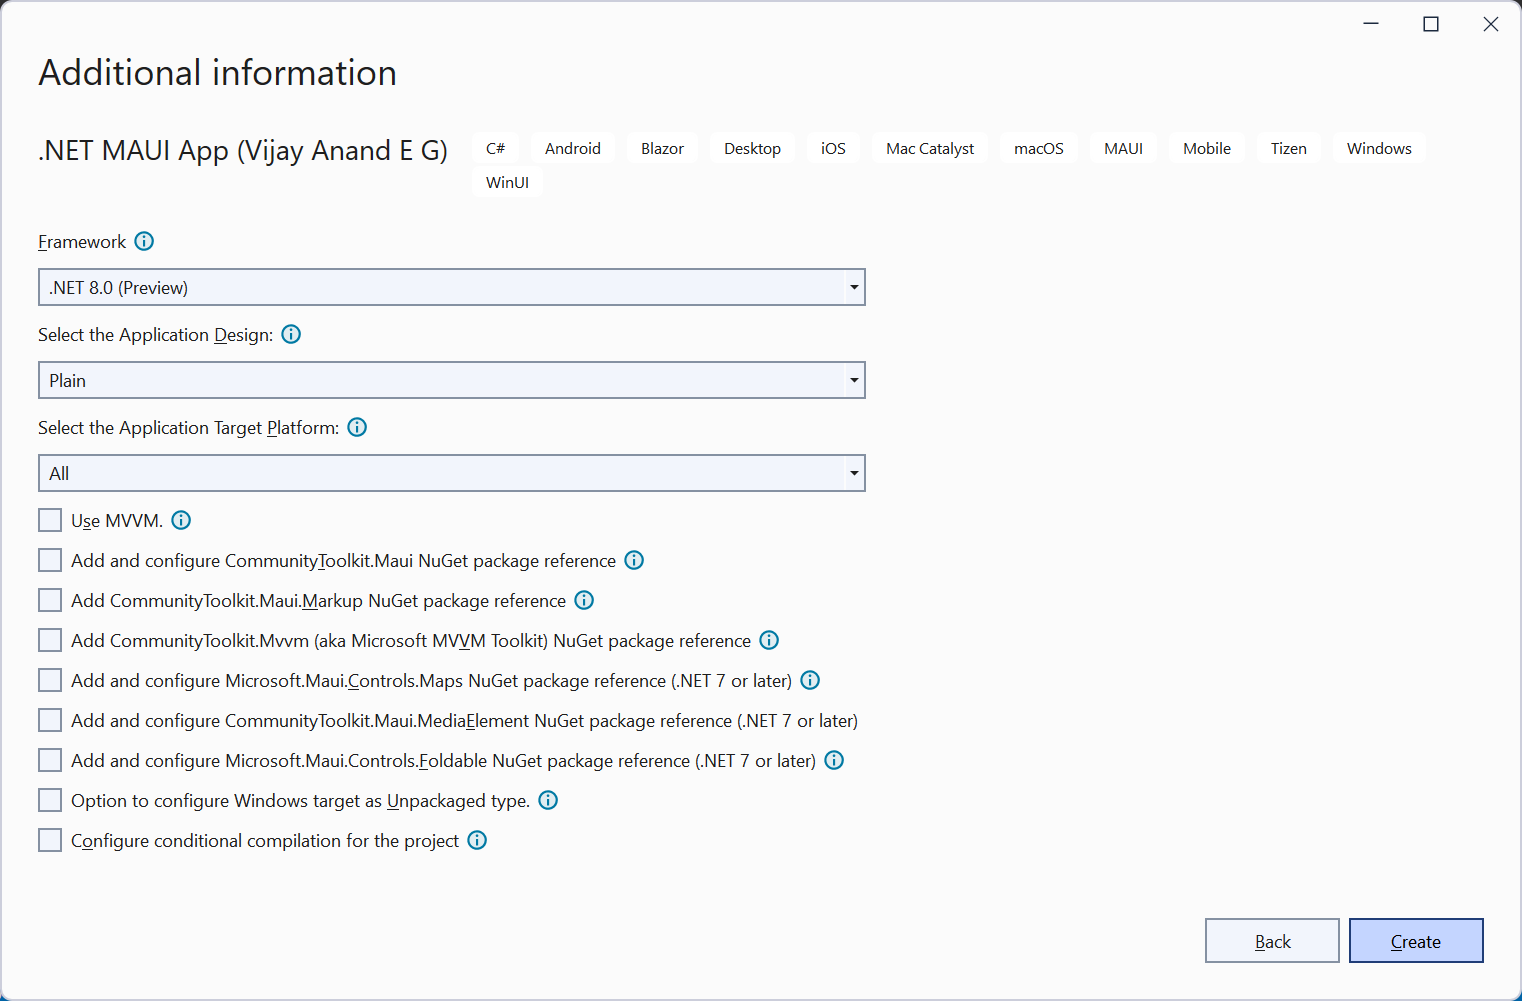
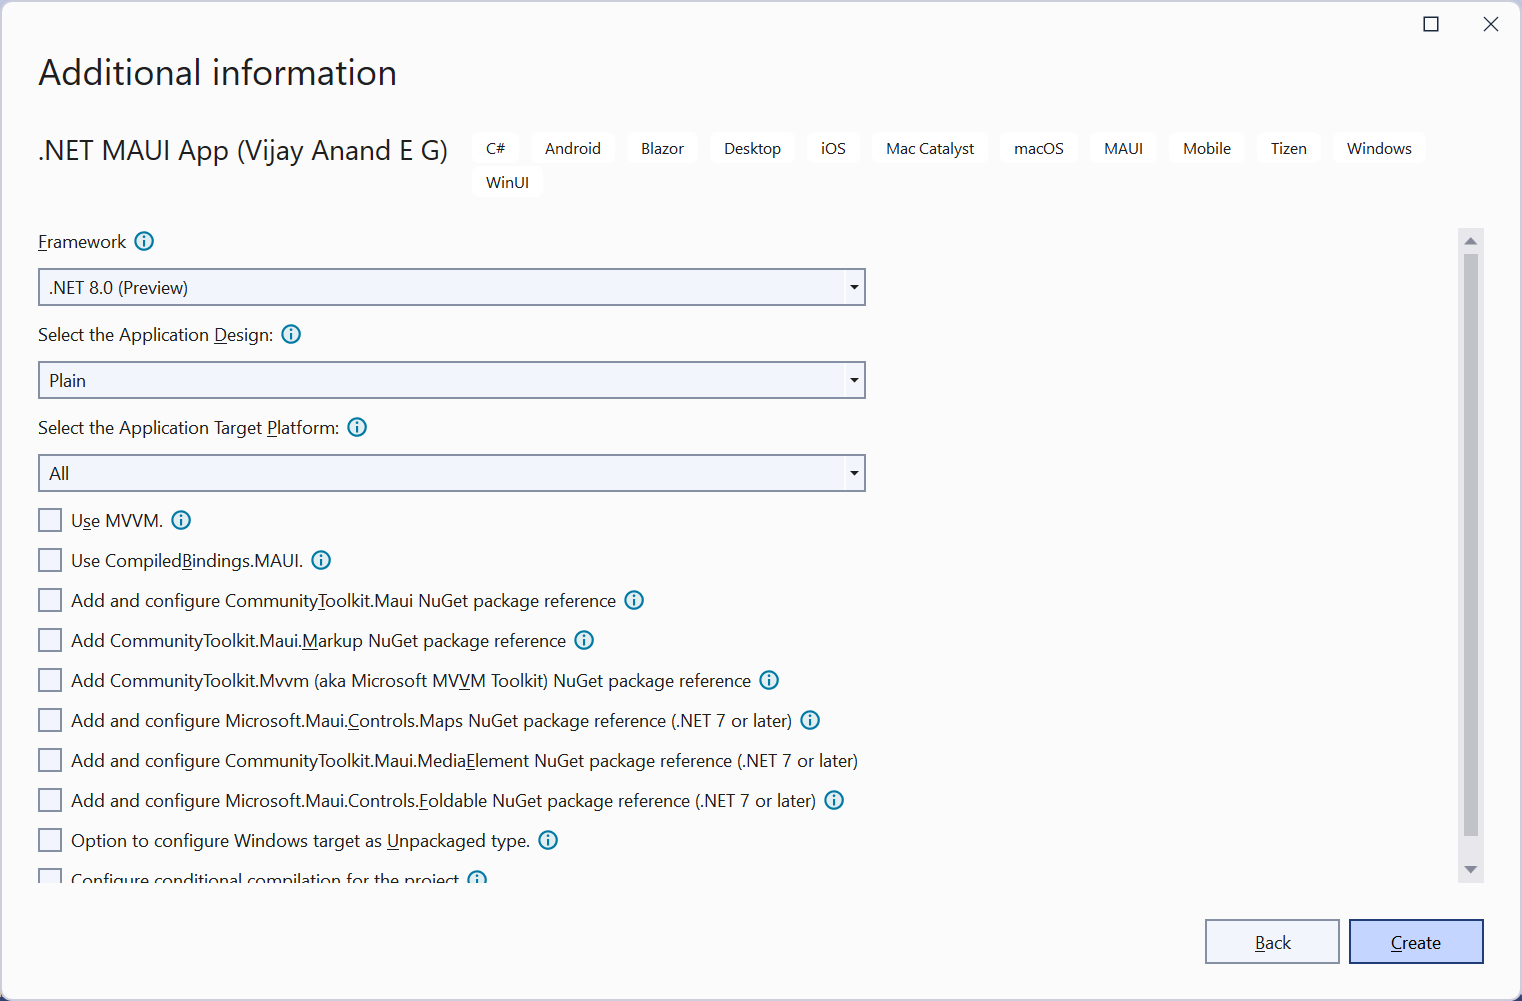
Added support for Compiled Bindings

diff --git a/src/MauiTemplatesCLI/MauiAppX/Views/MainPage.xaml b/src/MauiTemplatesCLI/MauiAppX/Views/MainPage.xaml
@@ -1,6 +1,19 @@
 <?xml version="1.0" encoding="UTF-8" ?>
 <!--#if (Hybrid)-->
 <!--#if (Mvvm)-->
+<!--#if (CompiledBindings)-->
+<ContentPage
+    x:Class="MauiApp._1.Views.MainPage"
+    xmlns="http://schemas.microsoft.com/dotnet/2021/maui"
+    xmlns:x="http://schemas.microsoft.com/winfx/2009/xaml"
+    xmlns:d="http://schemas.microsoft.com/dotnet/2021/maui/design"
+    xmlns:mc="http://schemas.openxmlformats.org/markup-compatibility/2006"
+    xmlns:local="clr-namespace:MauiApp._1"
+    xmlns:vm="clr-namespace:MauiApp._1.ViewModels"
+    Title="{x:Bind Title}"
+    x:DataType="vm:MainViewModel"
+    mc:Ignorable="d">
+<!--#else-->
 <ContentPage
     x:Class="MauiApp._1.Views.MainPage"
     xmlns="http://schemas.microsoft.com/dotnet/2021/maui"
@@ -12,6 +25,7 @@
     Title="{Binding Title}"
     x:DataType="vm:MainViewModel"
     mc:Ignorable="d">
+<!--#endif-->
     <ContentPage.Content>
         <BlazorWebView HostPage="wwwroot/index.html">
             <BlazorWebView.RootComponents>
@@ -66,6 +80,31 @@
 </TabbedPage>
 <!--#elif (Hierarchical)-->
 <!--#if (Mvvm)-->
+<!--#if (CompiledBindings)-->
+<ContentPage
+    x:Class="MauiApp._1.Views.MainPage"
+    xmlns="http://schemas.microsoft.com/dotnet/2021/maui"
+    xmlns:x="http://schemas.microsoft.com/winfx/2009/xaml"
+    xmlns:d="http://schemas.microsoft.com/dotnet/2021/maui/design"
+    xmlns:mc="http://schemas.openxmlformats.org/markup-compatibility/2006"
+    xmlns:local="clr-namespace:MauiApp._1"
+    xmlns:vm="clr-namespace:MauiApp._1.ViewModels"
+    Title="{x:Bind Title}"
+    x:DataType="vm:MainViewModel"
+    mc:Ignorable="d">
+    <ContentPage.Content>
+        <StackLayout
+            HorizontalOptions="Center"
+            VerticalOptions="Center">
+            <Label Text="You don't have anything scheduled today." />
+            <Button Command="{x:Bind AddEventCommand}"
+                    HorizontalOptions="Center"
+                    Style="{StaticResource PrimaryAction}"
+                    Text="Add Event" />
+        </StackLayout>
+    </ContentPage.Content>
+</ContentPage>
+<!--#else-->
 <ContentPage
     x:Class="MauiApp._1.Views.MainPage"
     xmlns="http://schemas.microsoft.com/dotnet/2021/maui"
@@ -89,6 +128,7 @@
         </StackLayout>
     </ContentPage.Content>
 </ContentPage>
+<!--#endif-->
 <!--#else-->
 <ContentPage
     x:Class="MauiApp._1.Views.MainPage"
@@ -114,6 +154,19 @@
 <!--#endif-->
 <!--#else-->
 <!--#if (Mvvm)-->
+<!--#if (CompiledBindings)-->
+<ContentPage
+    x:Class="MauiApp._1.Views.MainPage"
+    xmlns="http://schemas.microsoft.com/dotnet/2021/maui"
+    xmlns:x="http://schemas.microsoft.com/winfx/2009/xaml"
+    xmlns:d="http://schemas.microsoft.com/dotnet/2021/maui/design"
+    xmlns:mc="http://schemas.openxmlformats.org/markup-compatibility/2006"
+    xmlns:local="clr-namespace:MauiApp._1"
+    xmlns:vm="clr-namespace:MauiApp._1.ViewModels"
+    Title="{x:Bind Title}"
+    x:DataType="vm:MainViewModel"
+    mc:Ignorable="d">
+<!--#else-->
 <ContentPage
     x:Class="MauiApp._1.Views.MainPage"
     xmlns="http://schemas.microsoft.com/dotnet/2021/maui"
@@ -125,6 +178,7 @@
     Title="{Binding Title}"
     x:DataType="vm:MainViewModel"
     mc:Ignorable="d">
+<!--#endif-->
 <!--#else-->
 <ContentPage
     x:Class="MauiApp._1.Views.MainPage"
@@ -155,6 +209,23 @@
                     Text="Welcome to .NET Multi-platform App UI" />
 
 <!--#if (Mvvm)-->
+<!--#if (CompiledBindings)-->
+                <Label
+                    x:Name="CounterLabel"
+                    FontAttributes="Bold"
+                    FontSize="18"
+                    HorizontalOptions="Center"
+                    Style="{StaticResource MauiLabel}"
+                    Text="{x:Bind CountText}" />
+
+                <Button
+                    Command="{x:Bind IncrementCommand}"
+                    HorizontalOptions="Center"
+                    SemanticProperties.Hint="Counts the number of times you click"
+                    Style="{StaticResource PrimaryAction}"
+                    Text="Click me" />
+
+<!--#else-->
                 <Label
                     x:Name="CounterLabel"
                     FontAttributes="Bold"
@@ -170,6 +241,7 @@
                     Style="{StaticResource PrimaryAction}"
                     Text="Click me" />
 
+<!--#endif-->
 <!--#else-->
                 <Label
                     x:Name="CounterLabel"

diff --git a/src/MauiTemplatesCLI/MauiAppX/Views/NewEventPage.xaml b/src/MauiTemplatesCLI/MauiAppX/Views/NewEventPage.xaml
@@ -1,5 +1,61 @@
 <?xml version="1.0" encoding="UTF-8" ?>
 <!--#if (Mvvm)-->
+<!--#if (CompiledBindings)-->
+<ContentPage
+    x:Class="MauiApp._1.Views.NewEventPage"
+    xmlns="http://schemas.microsoft.com/dotnet/2021/maui"
+    xmlns:x="http://schemas.microsoft.com/winfx/2009/xaml"
+    xmlns:d="http://schemas.microsoft.com/dotnet/2021/maui/design"
+    xmlns:mc="http://schemas.openxmlformats.org/markup-compatibility/2006"
+    xmlns:ctrl="clr-namespace:MauiApp._1.Controls"
+    xmlns:local="clr-namespace:MauiApp._1"
+    xmlns:sys="clr-namespace:System;assembly=mscorlib"
+    xmlns:vm="clr-namespace:MauiApp._1.ViewModels"
+    Padding="{OnPlatform iOS={StaticResource ApplePadding},
+                         Default={StaticResource DefaultPadding}}"
+    Shell.PresentationMode="ModalAnimated"
+    Title="{x:Bind Title}"
+    x:DataType="vm:NewEventViewModel"
+    mc:Ignorable="d">
+    <ContentPage.Content>
+        <StackLayout>
+            <Entry
+                Text="{x:Bind Event.Name}"
+                Placeholder="Event name"
+                MaxLength="100" />
+            <Entry
+                Text="{x:Bind Event.Location}"
+                Placeholder="Location"
+                MaxLength="100" />
+            <ctrl:DateTimePicker
+                Title="Start:"
+                Date="{x:Bind Event.StartsAt.Date}"
+                MinimumDate="{x:Static sys:DateTime.Now}"
+                Time="{x:Bind Event.StartsAt.TimeOfDay}" />
+            <ctrl:DateTimePicker
+                Title="End:"
+                Date="{x:Bind Event.EndsAt.Date}"
+                MinimumDate="{x:Static sys:DateTime.Now}"
+                Time="{x:Bind Event.EndsAt.TimeOfDay}" />
+            <Editor
+                Text="{x:Bind Event.Notes}"
+                HeightRequest="100"
+                Placeholder="Notes"
+                MaxLength="500" />
+            <HorizontalStackLayout HorizontalOptions="Center">
+                <Button
+                    Command="{x:Bind SaveCommand}"
+                    Style="{StaticResource PrimaryAction}"
+                    Text="Save" />
+                <Button
+                    Command="{x:Bind CancelCommand}"
+                    Style="{StaticResource Action}"
+                    Text="Cancel" />
+            </HorizontalStackLayout>
+        </StackLayout>
+    </ContentPage.Content>
+</ContentPage>
+<!--#else-->
 <ContentPage
     x:Class="MauiApp._1.Views.NewEventPage"
     xmlns="http://schemas.microsoft.com/dotnet/2021/maui"
@@ -54,6 +110,7 @@
         </StackLayout>
     </ContentPage.Content>
 </ContentPage>
+<!--#endif-->
 <!--#else-->
 <ContentPage
     x:Class="MauiApp._1.Views.NewEventPage"

diff --git a/src/MauiTemplatesCLI/MauiAppX/Views/SettingsPage.xaml b/src/MauiTemplatesCLI/MauiAppX/Views/SettingsPage.xaml
@@ -1,5 +1,18 @@
 <?xml version="1.0" encoding="UTF-8" ?>
 <!--#if (Mvvm)-->
+<!--#if (CompiledBindings)-->
+<ContentPage
+    x:Class="MauiApp._1.Views.SettingsPage"
+    xmlns="http://schemas.microsoft.com/dotnet/2021/maui"
+    xmlns:x="http://schemas.microsoft.com/winfx/2009/xaml"
+    xmlns:d="http://schemas.microsoft.com/dotnet/2021/maui/design"
+    xmlns:mc="http://schemas.openxmlformats.org/markup-compatibility/2006"
+    xmlns:local="clr-namespace:MauiApp._1"
+    xmlns:vm="clr-namespace:MauiApp._1.ViewModels"
+    Title="{x:Bind Title}"
+    x:DataType="vm:SettingsViewModel"
+    mc:Ignorable="d">
+<!--#else-->
 <ContentPage
     x:Class="MauiApp._1.Views.SettingsPage"
     xmlns="http://schemas.microsoft.com/dotnet/2021/maui"
@@ -11,6 +24,7 @@
     Title="{Binding Title}"
     x:DataType="vm:SettingsViewModel"
     mc:Ignorable="d">
+<!--#endif-->
 <!--#else-->
 <ContentPage
     x:Class="MauiApp._1.Views.SettingsPage"

diff --git a/src/MauiTemplatesCLI/MauiAppX/Views/SearchPage.xaml b/src/MauiTemplatesCLI/MauiAppX/Views/SearchPage.xaml
@@ -1,5 +1,18 @@
 <?xml version="1.0" encoding="UTF-8" ?>
 <!--#if (Mvvm)-->
+<!--#if (CompiledBindings)-->
+<ContentPage
+    x:Class="MauiApp._1.Views.SearchPage"
+    xmlns="http://schemas.microsoft.com/dotnet/2021/maui"
+    xmlns:x="http://schemas.microsoft.com/winfx/2009/xaml"
+    xmlns:d="http://schemas.microsoft.com/dotnet/2021/maui/design"
+    xmlns:mc="http://schemas.openxmlformats.org/markup-compatibility/2006"
+    xmlns:local="clr-namespace:MauiApp._1"
+    xmlns:vm="clr-namespace:MauiApp._1.ViewModels"
+    Title="{x:Bind Title}"
+    x:DataType="vm:SearchViewModel"
+    mc:Ignorable="d">
+<!--#else-->
 <ContentPage
     x:Class="MauiApp._1.Views.SearchPage"
     xmlns="http://schemas.microsoft.com/dotnet/2021/maui"
@@ -11,6 +24,7 @@
     Title="{Binding Title}"
     x:DataType="vm:SearchViewModel"
     mc:Ignorable="d">
+<!--#endif-->
 <!--#else-->
 <ContentPage
     x:Class="MauiApp._1.Views.SearchPage"

diff --git a/src/MauiTemplatesCLI/MauiAppX/App.xaml b/src/MauiTemplatesCLI/MauiAppX/App.xaml
@@ -17,17 +17,17 @@
             <!--#if (!(Plain || Hybrid))-->
             <Thickness x:Key="ApplePadding">30,60,30,30</Thickness>
             <Thickness x:Key="DefaultPadding">30</Thickness>
-            <!--#endif-->
 
+            <!--#endif-->
             <x:Double x:Key="ItemSpacing">10</x:Double>
 
             <Style ApplyToDerivedTypes="True" TargetType="StackBase">
-                <Setter Property="Spacing" 
+                <Setter Property="Spacing"
                         Value="{StaticResource ItemSpacing}" />
             </Style>
 
             <Style x:Key="MauiLabel" TargetType="Label">
-                <Setter Property="TextColor" 
+                <Setter Property="TextColor"
                         Value="{AppThemeBinding Dark={StaticResource White}, Light={StaticResource Primary}}" />
             </Style>
 

diff --git a/src/MauiTemplatesCLI/MauiAppX/Views/EventsPage.xaml b/src/MauiTemplatesCLI/MauiAppX/Views/EventsPage.xaml
@@ -15,11 +15,19 @@
             HorizontalOptions="Center"
             VerticalOptions="Center">
             <Label Text="You don't have anything scheduled today." />
+            <!--#if (CompiledBindings)-->
+            <Button
+                Command="{x:Bind AddEventCommand}"
+                HorizontalOptions="Center"
+                Style="{StaticResource PrimaryAction}"
+                Text="Add Event" />
+            <!--#else-->
             <Button
                 Command="{Binding AddEventCommand}"
                 HorizontalOptions="Center"
                 Style="{StaticResource PrimaryAction}"
                 Text="Add Event" />
+            <!--#endif-->
         </StackLayout>
     </ContentPage.Content>
 </ContentPage>

diff --git a/src/MauiTemplatesCLI/MauiAppX/Views/LoginPage.xaml b/src/MauiTemplatesCLI/MauiAppX/Views/LoginPage.xaml
@@ -15,10 +15,17 @@
         <StackLayout
             HorizontalOptions="Center"
             VerticalOptions="Center">
+            <!--#if (CompiledBindings)-->
+            <Button
+                Command="{x:Bind LoginCommand}"
+                Style="{StaticResource PrimaryAction}"
+                Text="Login" />
+            <!--#else-->
             <Button
                 Command="{Binding LoginCommand}"
                 Style="{StaticResource PrimaryAction}"
                 Text="Login" />
+            <!--#endif-->
         </StackLayout>
     </ContentPage.Content>
 </ContentPage>

diff --git a/src/MauiTemplatesCLI/MauiAppX/MauiProgram.cs b/src/MauiTemplatesCLI/MauiAppX/MauiProgram.cs
@@ -10,10 +10,13 @@ using MauiApp._1.Data;
 #if Net7OrLater
 using Microsoft.Extensions.Logging;
 #endif
+#if AddMapsPackage
+using Microsoft.Maui.Controls.Hosting;
+#endif
 #if AddFoldablePackage
 using Microsoft.Maui.Foldable;
 #endif
-#if (AddToolkitPackage || Hybrid || Net7OrLater || AddFoldablePackage || Razor)
+#if (AddToolkitPackage || Hybrid || Net7OrLater || Razor)
 
 #endif
 namespace MauiApp._1

diff --git a/README.md b/README.md
@@ -283,6 +283,7 @@ Additional parameters supported:
 MVVM is a delightful and development-friendly design pattern to work with. To support this, a new parameter has been introduced:
 
 * `-mvvm` | `--use-mvvm` - Default is `false`
+* `-icb` | `--include-compiled-bindings` - Default is `false`
 
 *Note: Opting for this MVVM option will not have any impact on the App created with Web-based Razor syntax or MVU based Comet.*
 
@@ -413,6 +414,10 @@ dotnet new mauiapp -n MyApp -mvvm
 ```shell
 dotnet new mauiapp -n MyApp -dp Markup -mvvm
 ```
+Option to use MVVM (Compiled Bindings):
+```shell
+dotnet new mauiapp -n MyApp -mvvm -icb
+```
 Option to include NuGet packages:
 ```shell
 dotnet new mauiapp -n MyApp -dp Shell -it -im -imt -ime -inm -if
@@ -517,6 +522,10 @@ dotnet new mauiapp --name MyApp --use-mvvm
 ```
 ```shell
 dotnet new mauiapp --name MyApp --design-pattern Markup --use-mvvm
+```
+Option to use MVVM (Compiled Bindings):
+```shell
+dotnet new mauiapp --name MyApp --use-mvvm --include-compiled-bindings
 ```
 Option to include NuGet packages:
 ```shell

diff --git a/src/MauiTemplatesCLI/overview.md b/src/MauiTemplatesCLI/overview.md
@@ -189,6 +189,7 @@ Additional parameters supported:
 MVVM is a delightful and development-friendly design pattern to work with. To support this, a new parameter has been introduced:
 
 * `-mvvm` | `--use-mvvm` - Default is `false`
+* `-icb` | `--include-compiled-bindings` - Default is `false`
 
 *Note: Opting for this MVVM option will not have any impact on the App created with Web-based Razor syntax or MVU based Comet.*
 
@@ -317,6 +318,10 @@ dotnet new mauiapp -n MyApp -mvvm
 ```shell
 dotnet new mauiapp -n MyApp -dp Markup -mvvm
 ```
+Option to use MVVM (Compiled Bindings):
+```shell
+dotnet new mauiapp -n MyApp -mvvm -icb
+```
 Option to include NuGet packages:
 ```shell
 dotnet new mauiapp -n MyApp -dp Shell -it -im -imt -ime -inm -if
@@ -421,6 +426,10 @@ dotnet new mauiapp --name MyApp --use-mvvm
 ```
 ```shell
 dotnet new mauiapp --name MyApp --design-pattern Markup --use-mvvm
+```
+Option to use MVVM (Compiled Bindings):
+```shell
+dotnet new mauiapp --name MyApp --use-mvvm --include-compiled-bindings
 ```
 Option to include NuGet packages:
 ```shell
